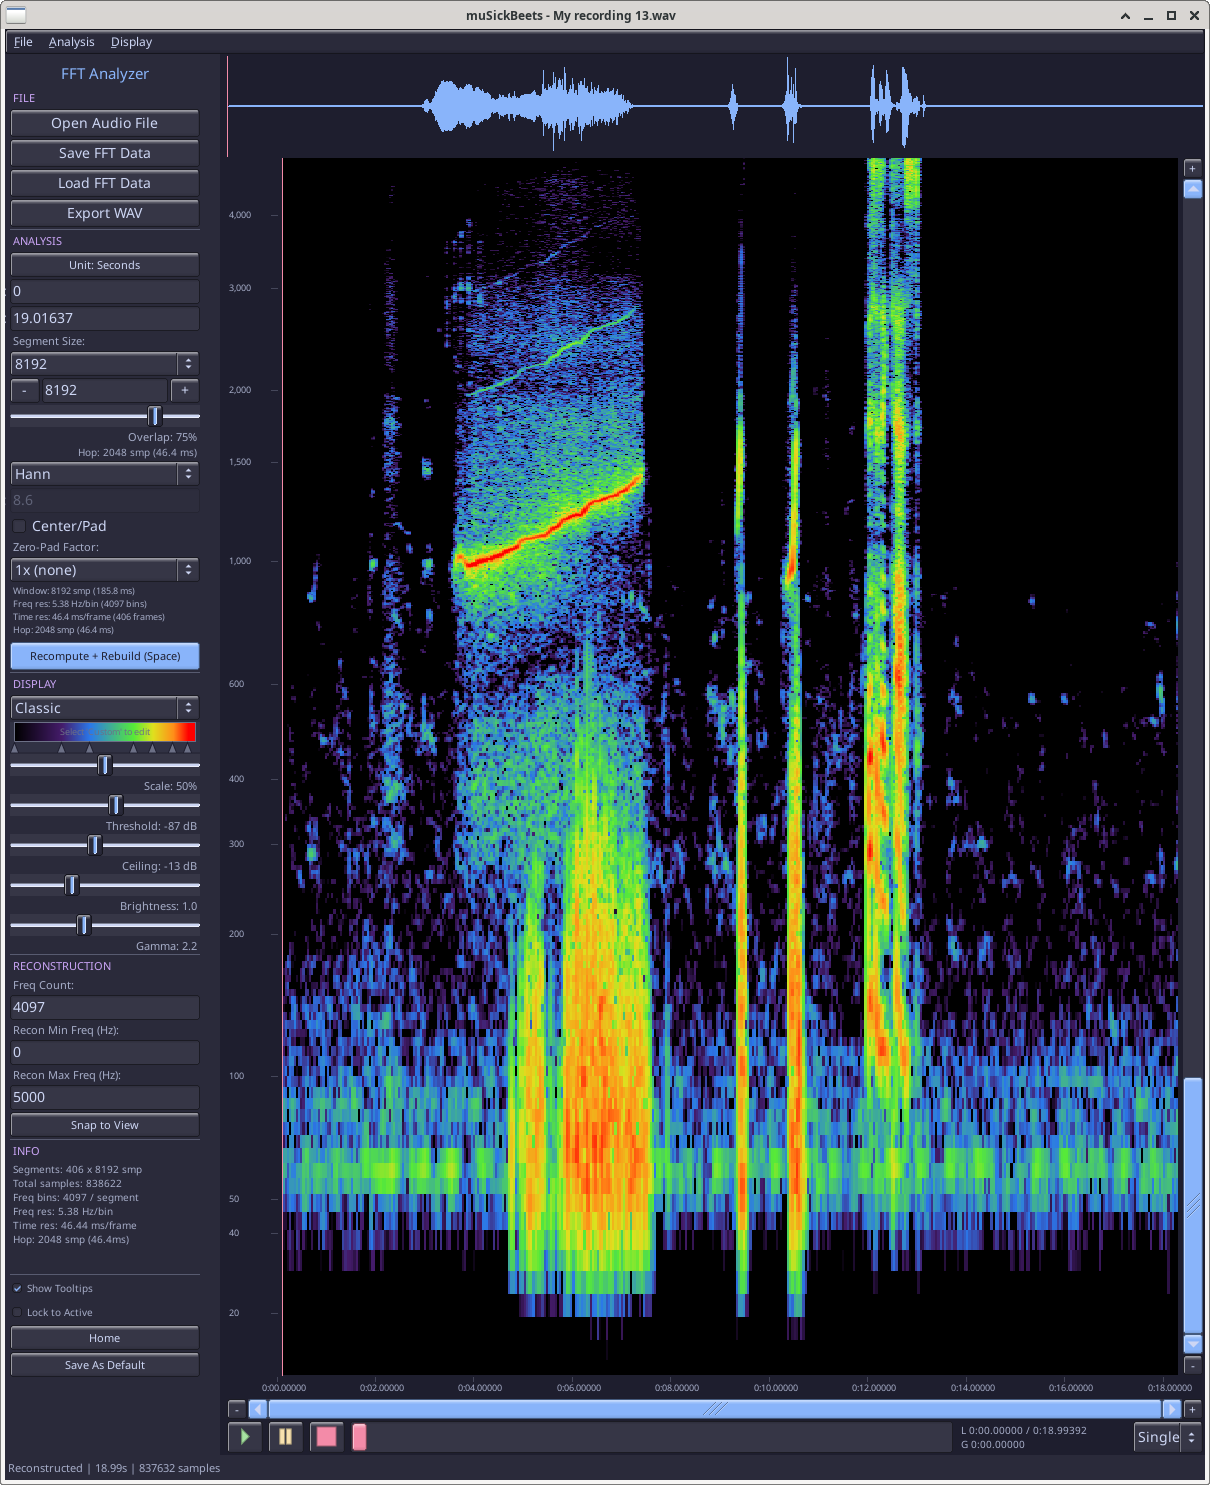
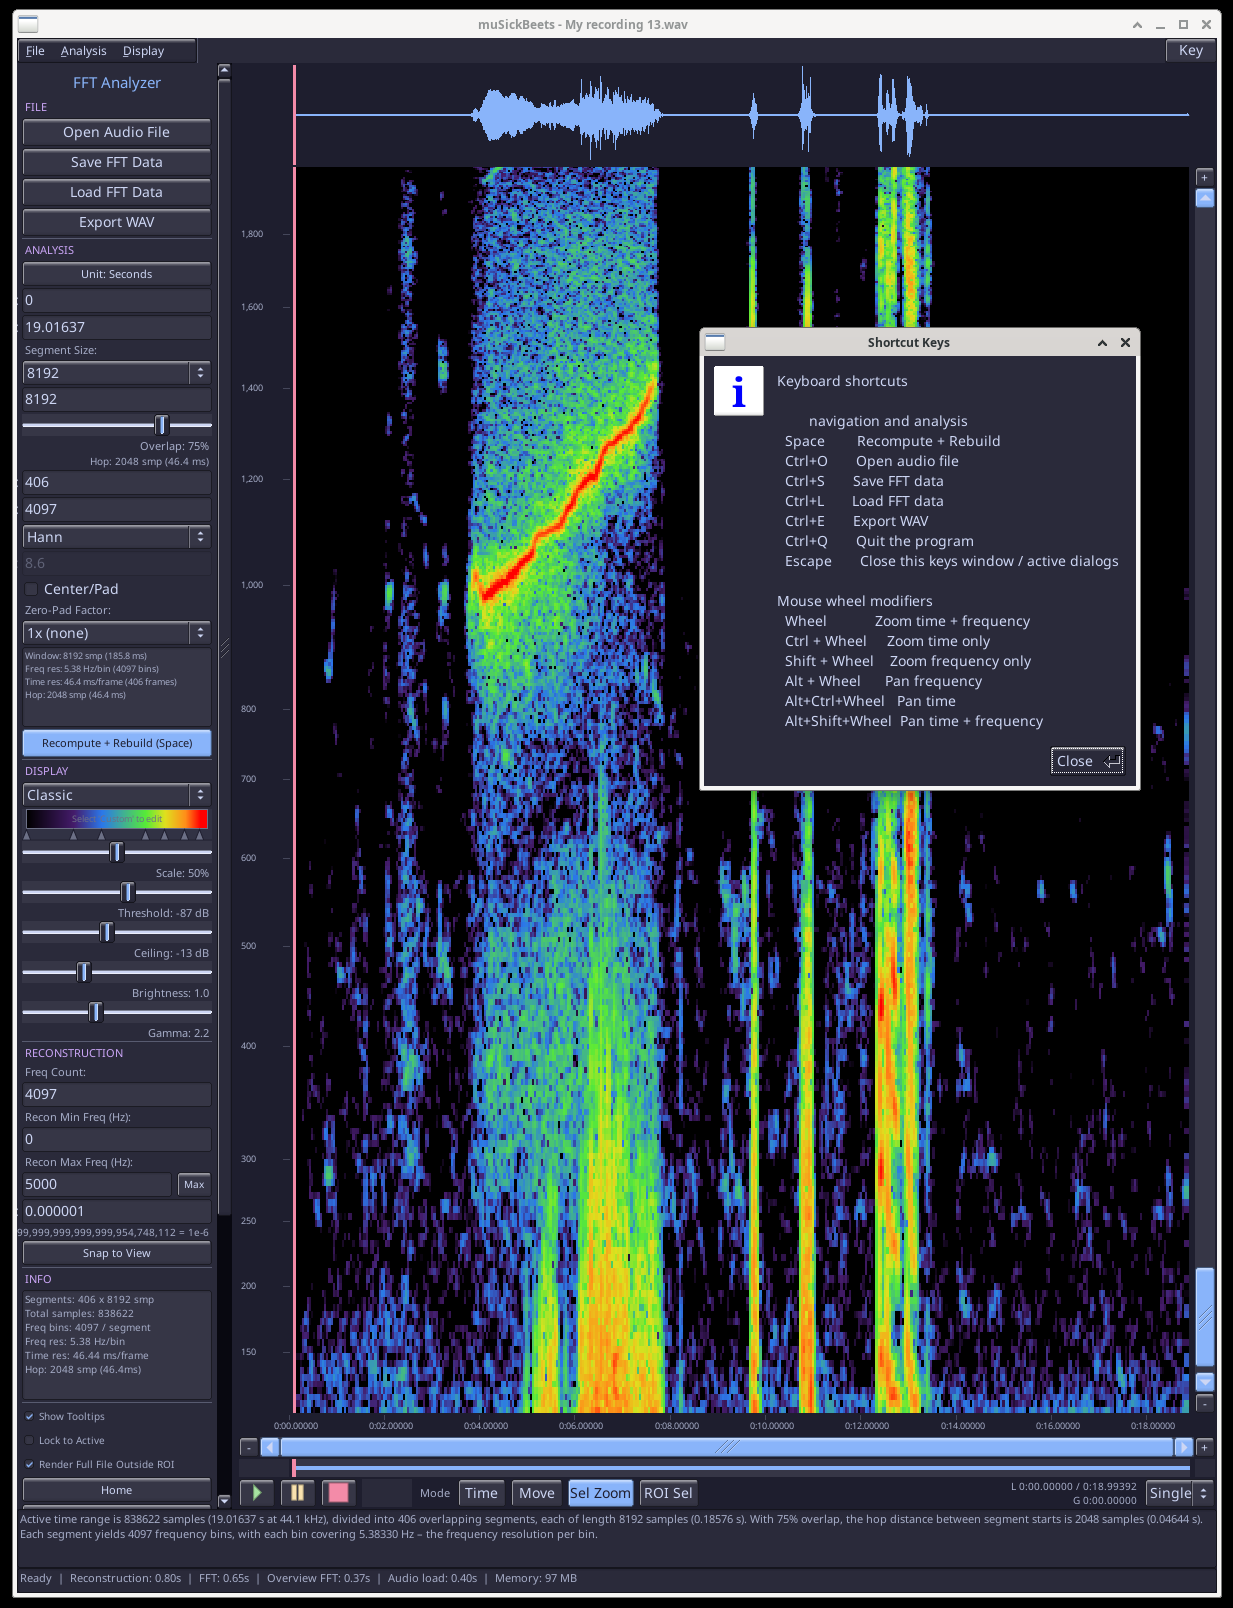
Update FFT screenshots and README gallery

diff --git a/README.md b/README.md
@@ -49,6 +49,9 @@ https://rustup.rs
 
 ![FFT Analyzer Interface](assets/fft_screenshot_2.png)
 
+
+![FFT Analyzer Interface](assets/fft_screenshot_3.png)
+
 ### spreadsheet music tracker 
 
 ![spreadsheet music tracker ](assets/tracker_screenshot_1.png)
